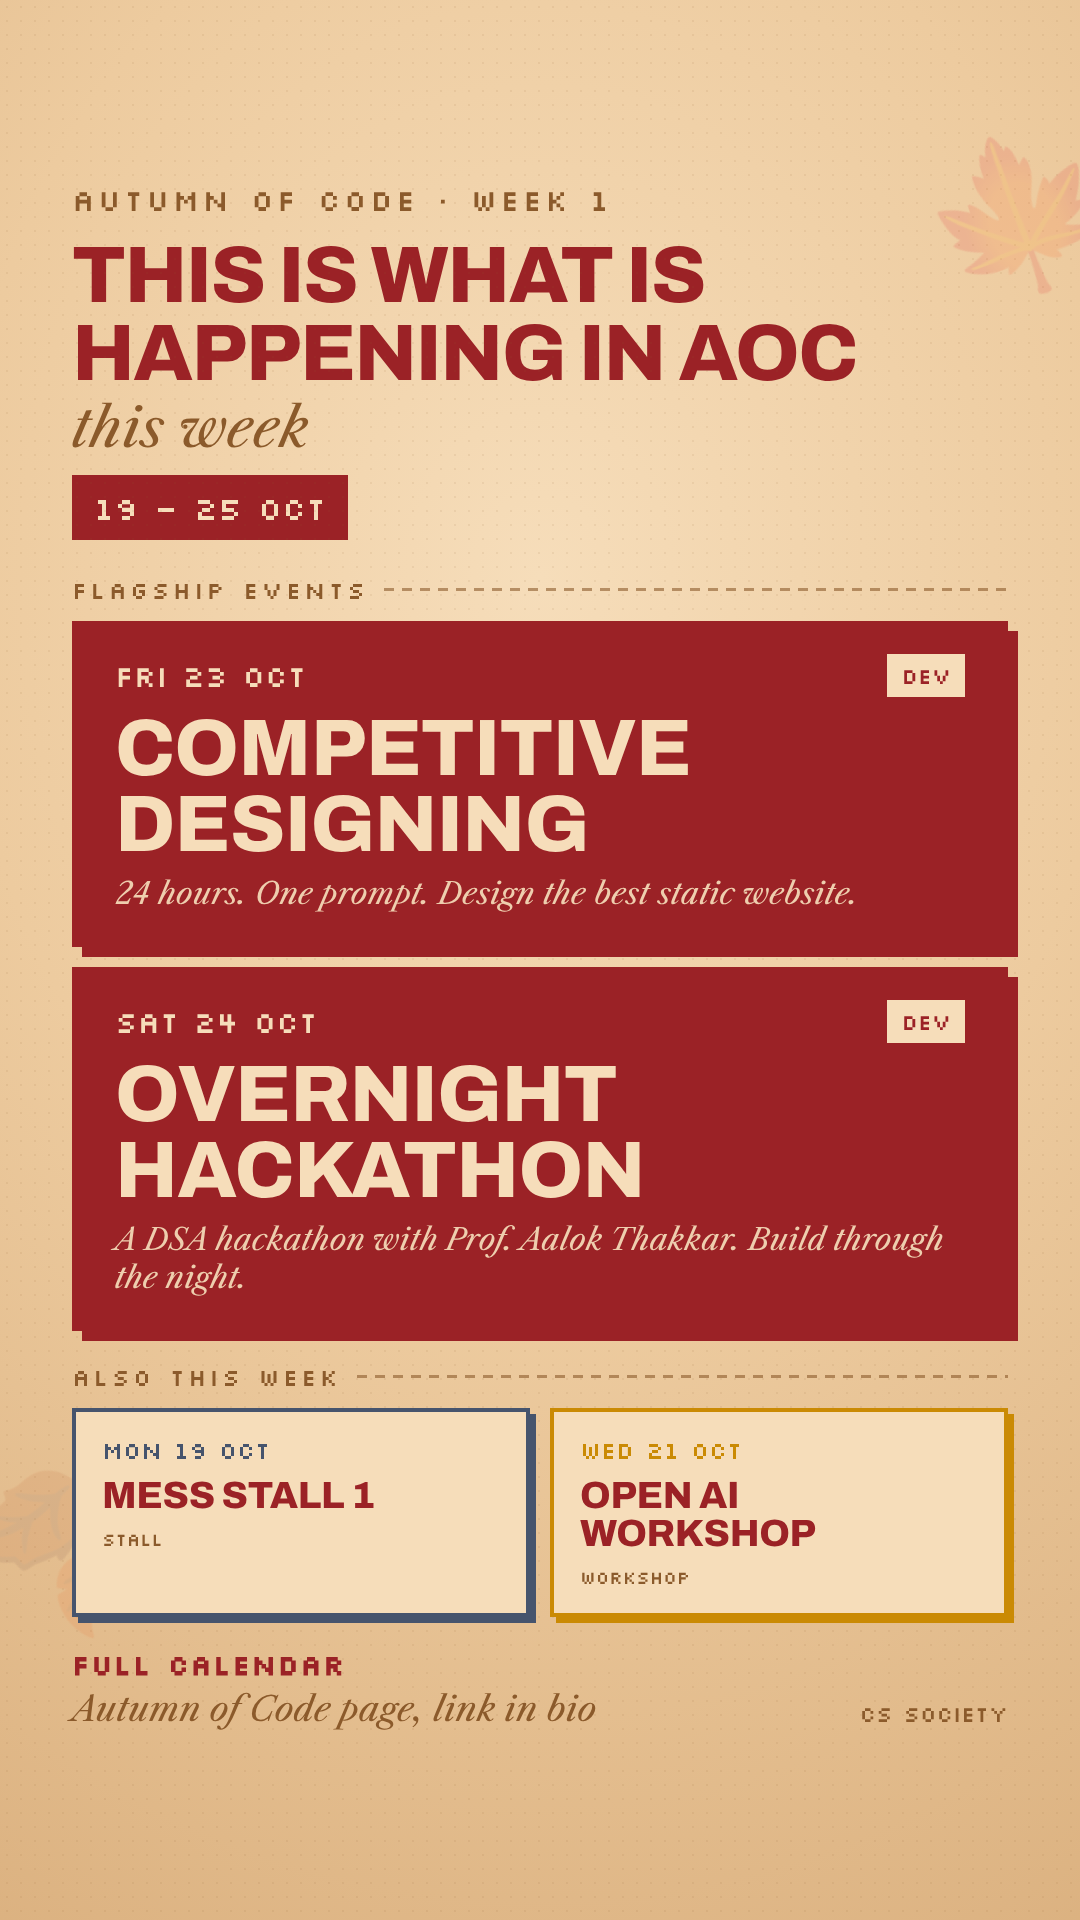
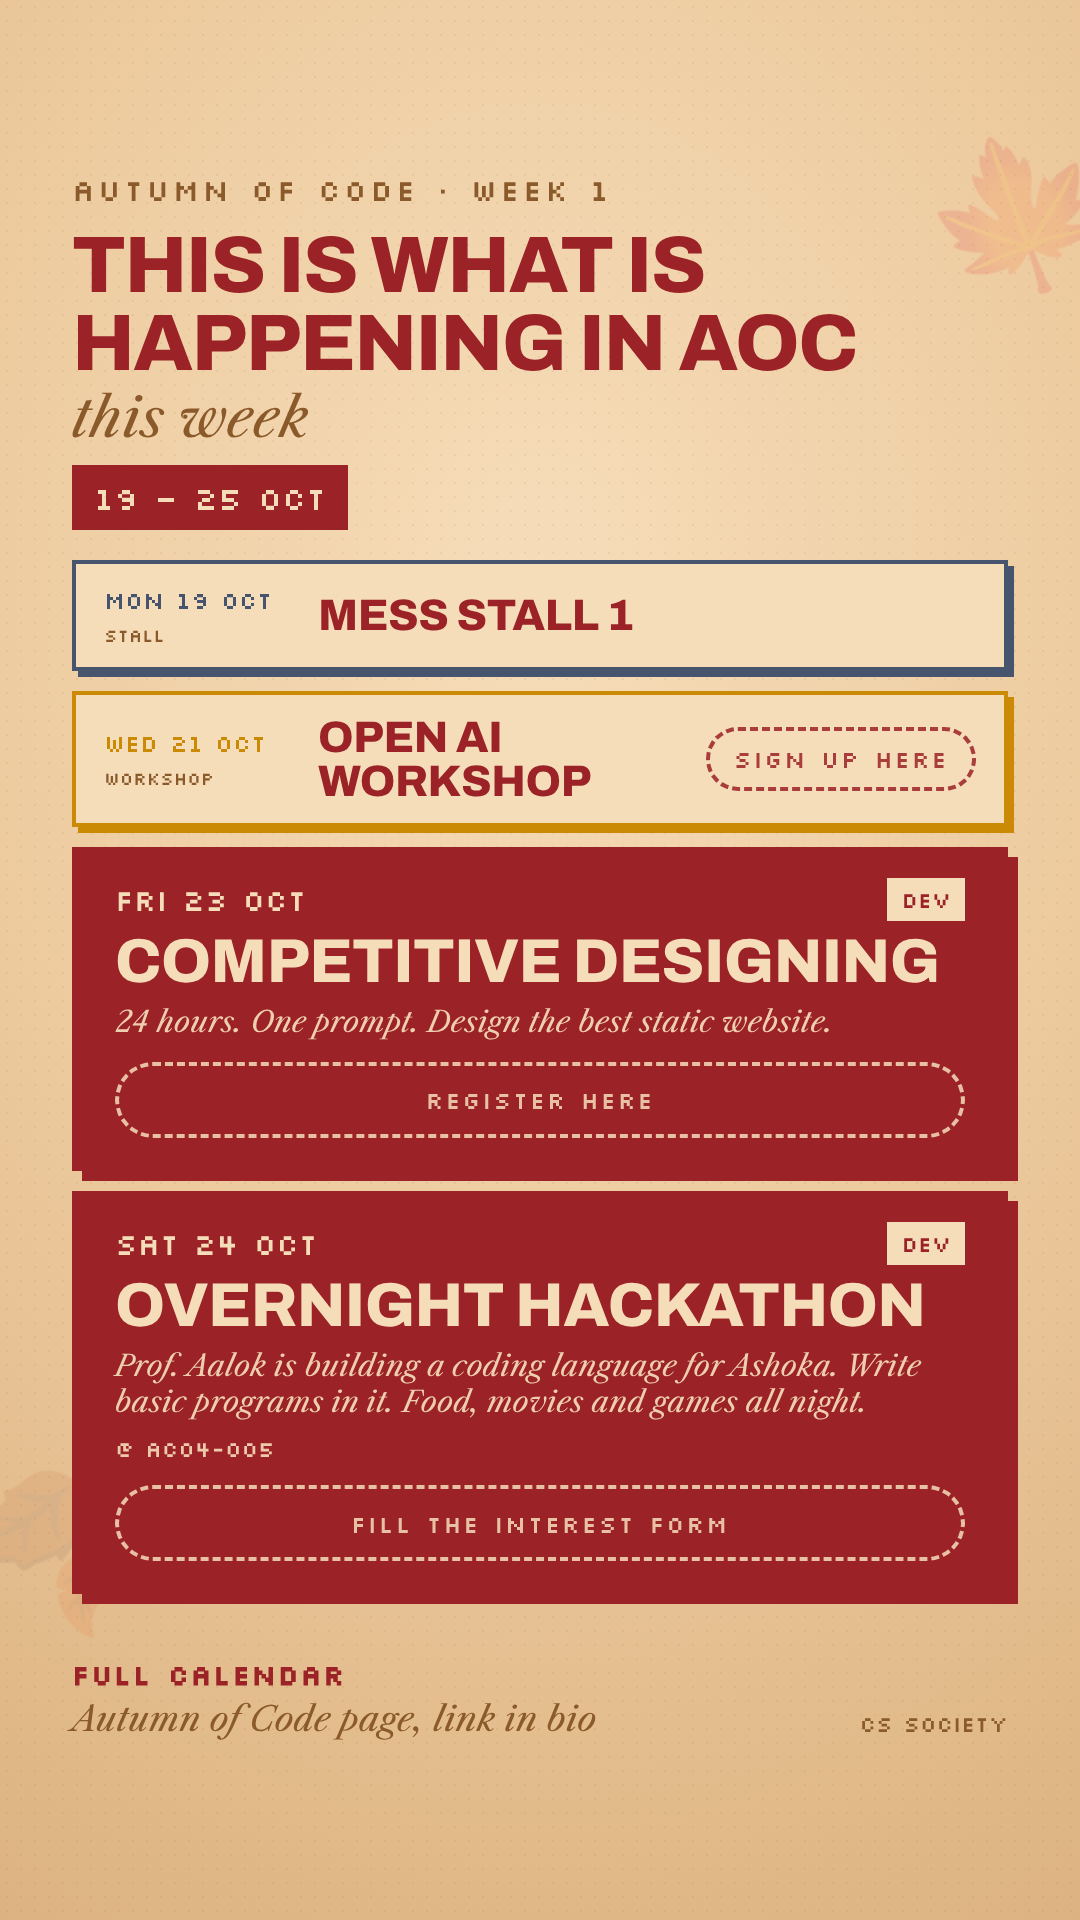
AOC story: chronological order, link sticker slots, new overnight hackathon copy

diff --git a/social/aoc-weekly-story/template.html b/social/aoc-weekly-story/template.html
@@ -21,7 +21,7 @@
     position: relative; width: 1080px; height: 1920px; overflow: hidden;
     background: radial-gradient(120% 85% at 50% 30%, var(--paper-light) 0%, var(--paper) 45%, var(--paper-deep) 100%);
     color: var(--maple); font-family: var(--serif);
-    padding: 180px 72px 190px; display: flex; flex-direction: column;
+    padding: 170px 72px 180px; display: flex; flex-direction: column;
   }
   .story::before { /* paper grain */
     content: ""; position: absolute; inset: 0; opacity: .5; pointer-events: none;
@@ -34,11 +34,7 @@
   .title em { font-family: var(--serif); font-style: italic; font-weight: 400; text-transform: none; display: block; font-size: 54px; letter-spacing: 0; margin-top: 8px; color: var(--oak); }
   .range { margin-top: 20px; display: inline-block; align-self: flex-start; font-family: var(--pixel); font-size: 32px; background: var(--maple); color: var(--paper-light); padding: 12px 22px; }
 
-  .blocks { flex: 1; margin-top: 34px; display: flex; flex-direction: column; gap: 16px; min-height: 0; }
-  .label { font-family: var(--pixel); font-size: 24px; letter-spacing: .14em; text-transform: uppercase; color: var(--oak); display: flex; align-items: center; gap: 16px; }
-  .label::after { content: ""; flex: 1; height: 3px; background: repeating-linear-gradient(90deg, var(--oak) 0 10px, transparent 10px 18px); opacity: .6; }
-  .flagships { display: flex; flex-direction: column; gap: 20px; }
-  .minors { display: grid; grid-template-columns: 1fr 1fr; gap: 20px; }
+  .blocks { flex: 1; margin-top: 30px; display: flex; flex-direction: column; gap: 20px; min-height: 0; }
 
   .block { position: relative; border: 5px solid var(--c); background: var(--bg); color: var(--fg); box-shadow: 10px 10px 0 var(--c); }
   .block .date { font-family: var(--pixel); text-transform: uppercase; }
@@ -46,17 +42,25 @@
   .block .name { font-family: var(--display); font-weight: 800; text-transform: uppercase; letter-spacing: -.01em; }
   .block .note { font-family: var(--serif); font-style: italic; }
 
-  .big { padding: 28px 38px 30px; }
+  .big { padding: 26px 38px 28px; }
   .big .top { display: flex; justify-content: space-between; align-items: center; }
   .big .date { font-size: 30px; }
+  .big .venue { font-family: var(--pixel); font-size: 22px; margin-top: 14px; opacity: .9; }
   .big .tag { font-size: 22px; padding: 7px 14px; background: var(--fg); color: var(--bg); }
-  .big .name { font-size: 80px; line-height: .95; margin-top: 14px; }
-  .big .note { font-size: 30px; line-height: 1.25; margin-top: 12px; opacity: .92; }
+  .big .name { font-size: 62px; line-height: .95; margin-top: 12px; white-space: nowrap; }
+  .big .note { font-size: 29px; line-height: 1.25; margin-top: 12px; opacity: .92; }
 
-  .small { padding: 22px 26px 24px; background: var(--paper-light); color: var(--bark); --c: var(--oak); box-shadow: 6px 6px 0 var(--c); border-width: 4px; }
+  .small { display: flex; align-items: center; gap: 24px; padding: 20px 28px; background: var(--paper-light); color: var(--bark); box-shadow: 6px 6px 0 var(--c); border-width: 4px; }
+  .small .when { min-width: 190px; }
   .small .date { font-size: 24px; color: var(--c); }
-  .small .name { font-size: 38px; line-height: 1; margin-top: 12px; color: var(--maple); }
-  .small .tag { font-size: 18px; margin-top: 12px; color: var(--oak); }
+  .small .tag { font-size: 18px; margin-top: 8px; color: var(--oak); }
+  .small .name { font-size: 44px; line-height: 1; color: var(--maple); flex: 1; }
+  .small .venue { font-family: var(--pixel); font-size: 20px; color: var(--oak); margin-top: 8px; }
+
+  /* Reserved spot for the Instagram link sticker: drop the sticker on top of this in the app. */
+  .slot { border: 4px dashed currentColor; border-radius: 999px; display: flex; align-items: center; justify-content: center; font-family: var(--pixel); font-size: 24px; letter-spacing: .08em; text-transform: uppercase; opacity: .85; }
+  .big .slot { height: 76px; margin-top: 22px; color: var(--fg); }
+  .small .slot { width: 270px; height: 64px; flex: none; color: var(--maple); }
 
   /* colour themes by event type, same as the AOC calendar */
   .t-dev      { --c: var(--maple);  --bg: var(--maple);  --fg: var(--paper-light); }
@@ -82,15 +86,20 @@
 const WEEK = {
   number: 1,
   range: "19 – 25 Oct",
-  flagship: [
-    { date: "Fri 23 Oct", name: "Competitive Designing", theme: "dev", tag: "Dev",
-      note: "24 hours. One prompt. Design the best static website." },
-    { date: "Sat 24 Oct", name: "Overnight Hackathon",   theme: "dev", tag: "Dev",
-      note: "A DSA hackathon with Prof. Aalok Thakkar. Build through the night." },
-  ],
-  minor: [
-    { date: "Mon 19 Oct", name: "Mess Stall 1",     theme: "other",    tag: "Stall" },
-    { date: "Wed 21 Oct", name: "Open AI Workshop", theme: "workshop", tag: "Workshop" },
+  /* One list, in date order. size: "big" (flagship) or "small" (minor).
+     theme: dev | workshop | fun | other. note: big only. venue: optional.
+     link: label for the link-sticker spot (leave out for no spot). */
+  events: [
+    { size: "small", date: "Mon 19 Oct", name: "Mess Stall 1", theme: "other", tag: "Stall" },
+    { size: "small", date: "Wed 21 Oct", name: "Open AI Workshop", theme: "workshop", tag: "Workshop",
+      link: "Sign up here" },
+    { size: "big", date: "Fri 23 Oct", name: "Competitive Designing", theme: "dev", tag: "Dev",
+      note: "24 hours. One prompt. Design the best static website.",
+      link: "Register here" },
+    { size: "big", date: "Sat 24 Oct", name: "Overnight Hackathon", theme: "dev", tag: "Dev",
+      note: "Prof. Aalok is building a coding language for Ashoka. Write basic programs in it. Food, movies and games all night.",
+      venue: "AC04-005",
+      link: "Fill the interest form" },
   ],
   cta: ["Full calendar", "Autumn of Code page, link in bio"],
   by: ["CS SOCIETY"],
@@ -98,17 +107,20 @@ const WEEK = {
 /* ============================================= */
 
 const esc = (s) => String(s).replace(/[&<>]/g, (c) => ({ "&": "&amp;", "<": "&lt;", ">": "&gt;" }[c]));
+const slot = (e) => e.link ? `<div class="slot">${esc(e.link)}</div>` : "";
 const big = (e) => `
   <div class="block big t-${e.theme}">
     <div class="top"><span class="date">${esc(e.date)}</span><span class="tag">${esc(e.tag)}</span></div>
     <div class="name">${esc(e.name)}</div>
     ${e.note ? `<div class="note">${esc(e.note)}</div>` : ""}
+    ${e.venue ? `<div class="venue">@ ${esc(e.venue)}</div>` : ""}
+    ${slot(e)}
   </div>`;
 const small = (e) => `
   <div class="block small t-${e.theme}">
-    <div class="date">${esc(e.date)}</div>
+    <div class="when"><div class="date">${esc(e.date)}</div><div class="tag">${esc(e.tag)}</div></div>
     <div class="name">${esc(e.name)}</div>
-    <div class="tag">${esc(e.tag)}</div>
+    ${slot(e)}
   </div>`;
 
 document.getElementById("story").innerHTML = `
@@ -117,12 +129,7 @@ document.getElementById("story").innerHTML = `
   <div class="kicker">Autumn of Code · Week ${WEEK.number}</div>
   <h1 class="title">This is what is happening in AOC<em>this week</em></h1>
   <div class="range">${esc(WEEK.range)}</div>
-  <div class="blocks">
-    <div class="label">Flagship events</div>
-    <div class="flagships">${WEEK.flagship.map(big).join("")}</div>
-    <div class="label" style="margin-top:14px">Also this week</div>
-    <div class="minors">${WEEK.minor.map(small).join("")}</div>
-  </div>
+  <div class="blocks">${WEEK.events.map((e) => (e.size === "big" ? big(e) : small(e))).join("")}</div>
   <div class="foot">
     <div class="cta"><b>${esc(WEEK.cta[0])}</b>${esc(WEEK.cta[1])}</div>
     <div class="by">${WEEK.by.map(esc).join("<br>")}</div>
